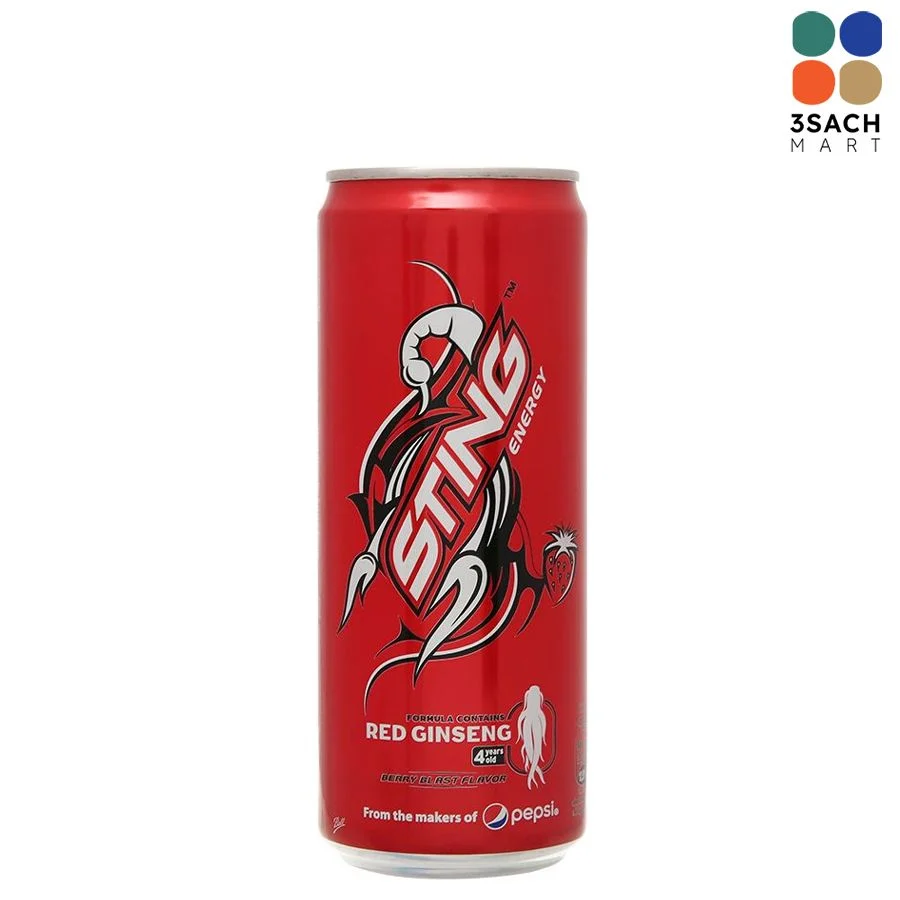
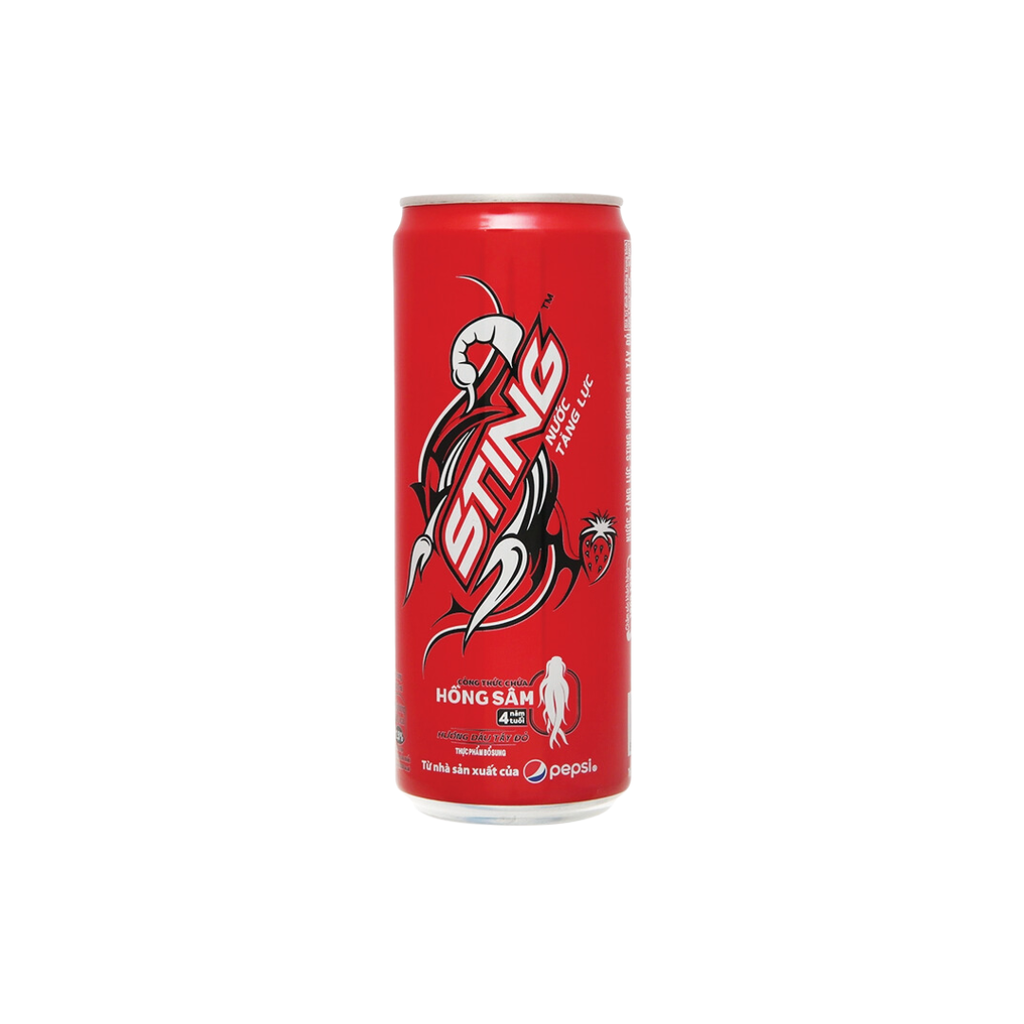
update products

Changed region(s): [[0.3422, 0.1867, 0.6533, 0.9956], [0.8711, 0.0, 0.9956, 0.1867]]

diff --git a/index.html b/index.html
@@ -38,6 +38,13 @@
                     <a href="#pepsi">Pepsi</a>
                     <a href="#sting">Sting</a>
                     <a href="#c2">C2</a>
+                    <a href="#mirinda">Mirinda</a>
+                    <a href="#twister">Twister</a>
+                    <a href="#khongdo">Không độ</a>
+                    <a href="#teaplus">Ô long teaplus</a>
+                    <a href="#drthanh">Dr Thanh</a>
+                    <a href="#revive">Revive</a>
+                    <a href="#wonderfarm">Wonderfarm</a>
                 </div>
             <a href="#energy-drinks" class="parent-link">NƯỚC TĂNG LỰC</a>
                 <div class="sub-menu">
@@ -45,6 +52,7 @@
                     <a href="#number1">Nước tăng lực Number1</a>
                     <a href="#lipovitan">Lipovitan</a>
                     <a href="#rockstar">Rockstar</a>
+                    <a href="#warrior">Warrior</a>
                 </div>
             <a href="#mineral" class="parent-link">NƯỚC KHOÁNG, NƯỚC SUỐI</a>
                 <div class="sub-menu">
@@ -196,8 +204,18 @@
                     </div>
                     <div id="tiger" class="product" data-barcode="603009415">
                         <img src="assets/img/beer/tiger.jpg" alt="Beer 1">
-                        <h3>Thùng 20 lon bia Tiger Lager 330ml</h3>
+                        <h3>Thùng 20 lon bia Tiger Soju Cheeky Plum vị mận 330ml</h3>
                         <p>265.000đ</p>
+                        <p class="barcode">Mã barcode: 603009415</p>
+                        <button onclick="addToCart(this.parentElement)">Mua</button>
+                        <button class="heart-button" onclick="addToFavorites(this.parentElement)">
+                            <img src="assets/img/heart/Heart-04.svg" alt="Add to Favorites">
+                        </button>
+                    </div>
+                    <div id="tiger" class="product" data-barcode="603009415">
+                        <img src="assets/img/beer/tiger1_1.jpeg" alt="Beer 1">
+                        <h3>Bia Tiger Soju Cheeky Plum vị mận 330ml</h3>
+                        <p>17.000đ</p>
                         <p class="barcode">Mã barcode: 603009415</p>
                         <button onclick="addToCart(this.parentElement)">Mua</button>
                         <button class="heart-button" onclick="addToFavorites(this.parentElement)">
@@ -208,6 +226,36 @@
                         <img src="assets/img/beer/tiger2.jpg" alt="Beer 2">
                         <h3>Thùng 24 bia Tiger Lager 330ml</h3>
                         <p>350.000đ</p>
+                        <p class="barcode">Mã barcode: 218372328</p>
+                        <button onclick="addToCart(this.parentElement)">Mua</button>
+                        <button class="heart-button" onclick="addToFavorites(this.parentElement)">
+                            <img src="assets/img/heart/Heart-04.svg" alt="Add to Favorites">
+                        </button>
+                    </div>
+                    <div id="tiger" class="product" data-barcode="218372328">
+                        <img src="assets/img/beer/tiger2_1.webp" alt="Beer 2">
+                        <h3>Bia Tiger Lager 330ml</h3>
+                        <p>17.000đ</p>
+                        <p class="barcode">Mã barcode: 218372328</p>
+                        <button onclick="addToCart(this.parentElement)">Mua</button>
+                        <button class="heart-button" onclick="addToFavorites(this.parentElement)">
+                            <img src="assets/img/heart/Heart-04.svg" alt="Add to Favorites">
+                        </button>
+                    </div>
+                    <div id="tiger" class="product" data-barcode="218372328">
+                        <img src="assets/img/beer/tiger3.jpg" alt="Beer 2">
+                        <h3>Thùng 24 bia Tiger Crystal 330ml</h3>
+                        <p>350.000đ</p>
+                        <p class="barcode">Mã barcode: 218372328</p>
+                        <button onclick="addToCart(this.parentElement)">Mua</button>
+                        <button class="heart-button" onclick="addToFavorites(this.parentElement)">
+                            <img src="assets/img/heart/Heart-04.svg" alt="Add to Favorites">
+                        </button>
+                    </div>
+                    <div id="tiger" class="product" data-barcode="218372328">
+                        <img src="assets/img/beer/tiger3_1.webp" alt="Beer 2">
+                        <h3>Bia Tiger Crystal 330ml</h3>
+                        <p>17.000đ</p>
                         <p class="barcode">Mã barcode: 218372328</p>
                         <button onclick="addToCart(this.parentElement)">Mua</button>
                         <button class="heart-button" onclick="addToFavorites(this.parentElement)">
@@ -261,8 +309,8 @@
                         </button>
                     </div>
                     <div id="sting" class="product" data-barcode="994449014">
-                        <img src="assets/img/water/soft-drink/sting24.webp" alt="Water 1">
-                        <h3>Thùng 24 lon Sting 320 ml</h3>
+                        <img src="assets/img/water/soft-drink/sting28.png" alt="Water 1">
+                        <h3>Thùng 28 lon Sting 320 ml</h3>
                         <p>247.500đ</p>
                         <p class="barcode">Mã barcode: 994449014</p>
                         <button onclick="addToCart(this.parentElement)">Mua</button>
@@ -293,6 +341,86 @@
                     <div id="c2" class="product" data-barcode="185073793">
                         <img src="assets/img/water/soft-drink/c2chai.jpg" alt="Water 2">
                         <h3>Các loại lon C2 455 ml</h3>
+                        <p>10.000đ</p>
+                        <p class="barcode">Mã barcode: 185073793</p>
+                        <button onclick="addToCart(this.parentElement)">Mua</button>
+                        <button class="heart-button" onclick="addToFavorites(this.parentElement)">
+                            <img src="assets/img/heart/Heart-04.svg" alt="Add to Favorites">
+                        </button>
+                    </div>
+                    <div id="mirinda" class="product" data-barcode="714066207">
+                        <img src="assets/img/water/soft-drink/mirinda_24.jpg" alt="Water 1">
+                        <h3>Thùng 24 lon nước ngọt Mirinda hương cam 330ml</h3>
+                        <p>182.000đ</p>
+                        <p class="barcode">Mã barcode: 714066207</p>
+                        <button onclick="addToCart(this.parentElement)">Mua</button>
+                        <button class="heart-button" onclick="addToFavorites(this.parentElement)">
+                            <img src="assets/img/heart/Heart-04.svg" alt="Add to Favorites">
+                        </button>
+                    </div>
+                    <div id="mirinda" class="product" data-barcode="185073793">
+                        <img src="assets/img/water/soft-drink/mirinda_1.webp" alt="Water 2">
+                        <h3>Nước Giải Khát Mirinda Cam Lon 330ml</h3>
+                        <p>10.000đ</p>
+                        <p class="barcode">Mã barcode: 185073793</p>
+                        <button onclick="addToCart(this.parentElement)">Mua</button>
+                        <button class="heart-button" onclick="addToFavorites(this.parentElement)">
+                            <img src="assets/img/heart/Heart-04.svg" alt="Add to Favorites">
+                        </button>
+                    </div>
+                    <div id="twister" class="product" data-barcode="714066207">
+                        <img src="assets/img/water/soft-drink/twister_24.webp" alt="Water 1">
+                        <h3>Thùng 24 chai nước cam ép Twister 320ml</h3>
+                        <p>182.000đ</p>
+                        <p class="barcode">Mã barcode: 714066207</p>
+                        <button onclick="addToCart(this.parentElement)">Mua</button>
+                        <button class="heart-button" onclick="addToFavorites(this.parentElement)">
+                            <img src="assets/img/heart/Heart-04.svg" alt="Add to Favorites">
+                        </button>
+                    </div>
+                    <div id="twister" class="product" data-barcode="185073793">
+                        <img src="assets/img/water/soft-drink/twister_1.jpg" alt="Water 2">
+                        <h3>Chai nước cam ép Twister 320ml</h3>
+                        <p>10.000đ</p>
+                        <p class="barcode">Mã barcode: 185073793</p>
+                        <button onclick="addToCart(this.parentElement)">Mua</button>
+                        <button class="heart-button" onclick="addToFavorites(this.parentElement)">
+                            <img src="assets/img/heart/Heart-04.svg" alt="Add to Favorites">
+                        </button>
+                    </div>
+                    <div id="khongdo" class="product" data-barcode="714066207">
+                        <img src="assets/img/water/soft-drink/khongdo_24.jpg" alt="Water 1">
+                        <h3>Thùng 24 chai Trà xanh Không Độ vị chanh 455ml</h3>
+                        <p>219.000đ</p>
+                        <p class="barcode">Mã barcode: 714066207</p>
+                        <button onclick="addToCart(this.parentElement)">Mua</button>
+                        <button class="heart-button" onclick="addToFavorites(this.parentElement)">
+                            <img src="assets/img/heart/Heart-04.svg" alt="Add to Favorites">
+                        </button>
+                    </div>
+                    <div id="khongdo" class="product" data-barcode="185073793">
+                        <img src="assets/img/water/soft-drink/khongdo_1.jpg" alt="Water 2">
+                        <h3>Chai Trà Xanh Không Độ 455ml</h3>
+                        <p>10.000đ</p>
+                        <p class="barcode">Mã barcode: 185073793</p>
+                        <button onclick="addToCart(this.parentElement)">Mua</button>
+                        <button class="heart-button" onclick="addToFavorites(this.parentElement)">
+                            <img src="assets/img/heart/Heart-04.svg" alt="Add to Favorites">
+                        </button>
+                    </div>
+                    <div id="teaplus" class="product" data-barcode="714066207">
+                        <img src="assets/img/water/soft-drink/olong_24.jpg" alt="Water 1">
+                        <h3>Thùng 24 chai Ô Long Tea Plus 455mlC</h3>
+                        <p>215.000đ</p>
+                        <p class="barcode">Mã barcode: 714066207</p>
+                        <button onclick="addToCart(this.parentElement)">Mua</button>
+                        <button class="heart-button" onclick="addToFavorites(this.parentElement)">
+                            <img src="assets/img/heart/Heart-04.svg" alt="Add to Favorites">
+                        </button>
+                    </div>
+                    <div id="teaplus" class="product" data-barcode="185073793">
+                        <img src="assets/img/water/soft-drink/olong_1.jpg" alt="Water 2">
+                        <h3>Chai Ô Long Tea Plus 455ml</h3>
                         <p>10.000đ</p>
                         <p class="barcode">Mã barcode: 185073793</p>
                         <button onclick="addToCart(this.parentElement)">Mua</button>
@@ -381,6 +509,26 @@
                             <h3>Lon Rockstar 250 ml</h3>
                             <p>10.000đ</p>
                             <p class="barcode">Mã barcode: 416632822</p>
+                            <button onclick="addToCart(this.parentElement)">Mua</button>
+                            <button class="heart-button" onclick="addToFavorites(this.parentElement)">
+                                <img src="assets/img/heart/Heart-04.svg" alt="Add to Favorites">
+                            </button>
+                        </div>
+                        <div id="warrior" class="product" data-barcode="714066207">
+                            <img src="assets/img/water/soft-drink/warrior_24.jpg" alt="Water 1">
+                            <h3>Thùng 24 lon nước tăng lực Warrior hương dâu 325ml</h3>
+                            <p>182.000đ</p>
+                            <p class="barcode">Mã barcode: 714066207</p>
+                            <button onclick="addToCart(this.parentElement)">Mua</button>
+                            <button class="heart-button" onclick="addToFavorites(this.parentElement)">
+                                <img src="assets/img/heart/Heart-04.svg" alt="Add to Favorites">
+                            </button>
+                        </div>
+                        <div id="warrior" class="product" data-barcode="185073793">
+                            <img src="assets/img/water/soft-drink/warrior_1.jpg" alt="Water 2">
+                            <h3>Nước tăng lực hương dâu Warrior 325ml</h3>
+                            <p>10.000đ</p>
+                            <p class="barcode">Mã barcode: 185073793</p>
                             <button onclick="addToCart(this.parentElement)">Mua</button>
                             <button class="heart-button" onclick="addToFavorites(this.parentElement)">
                                 <img src="assets/img/heart/Heart-04.svg" alt="Add to Favorites">
